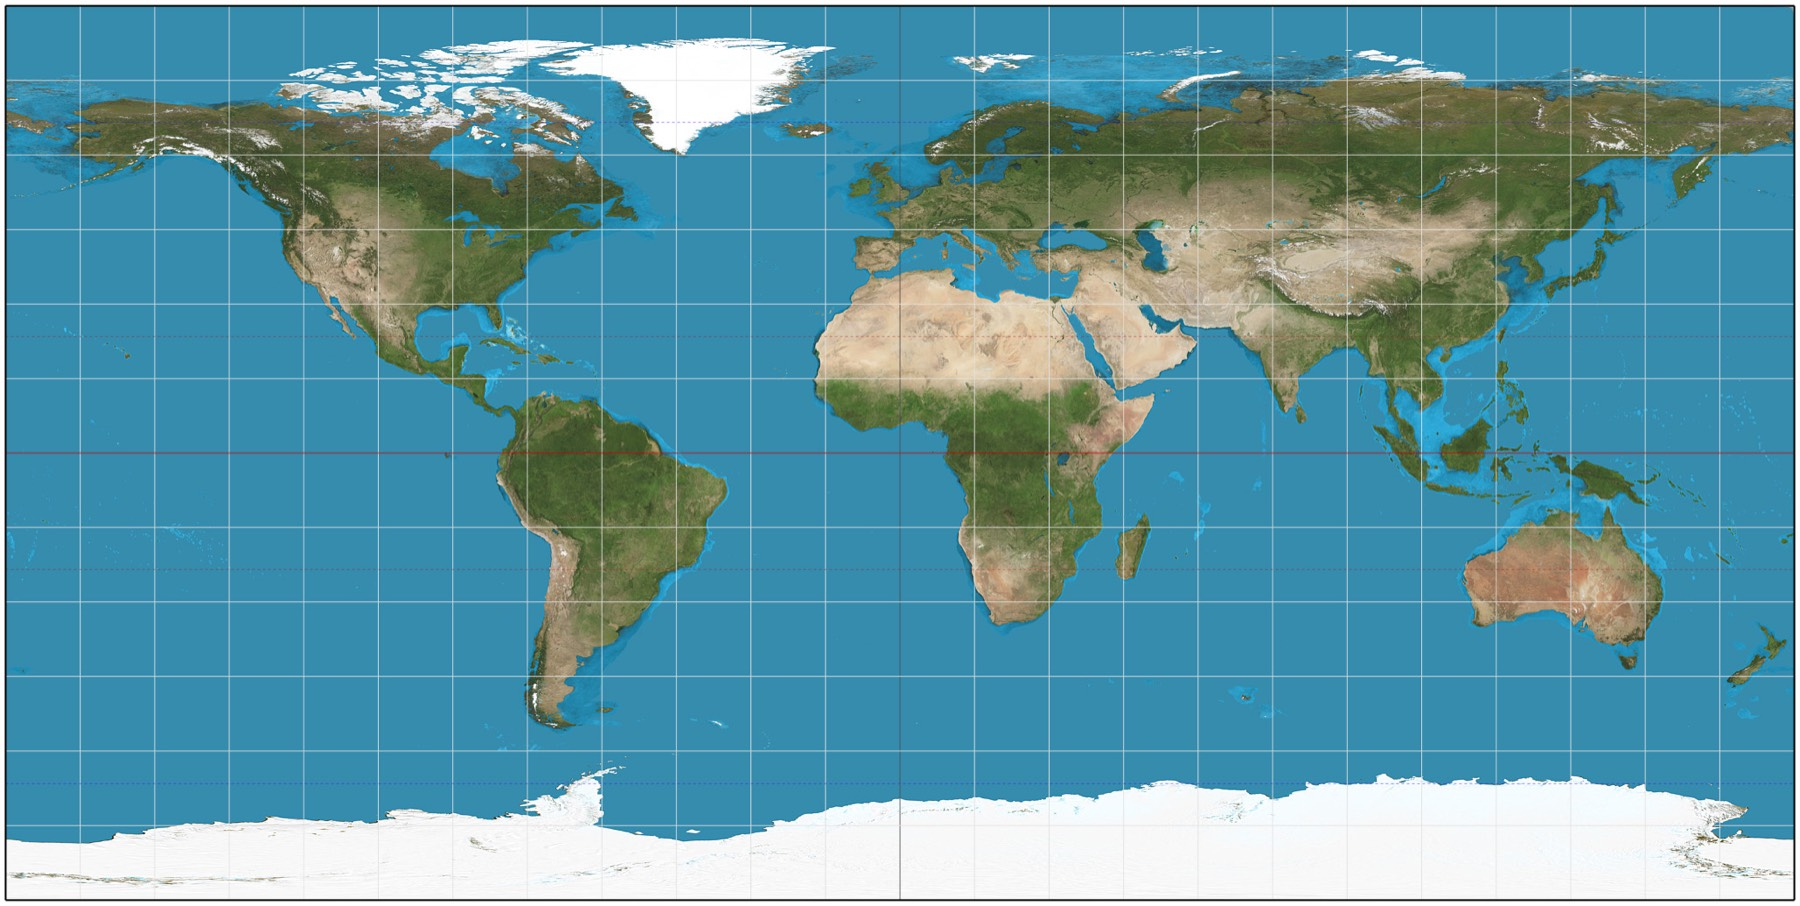
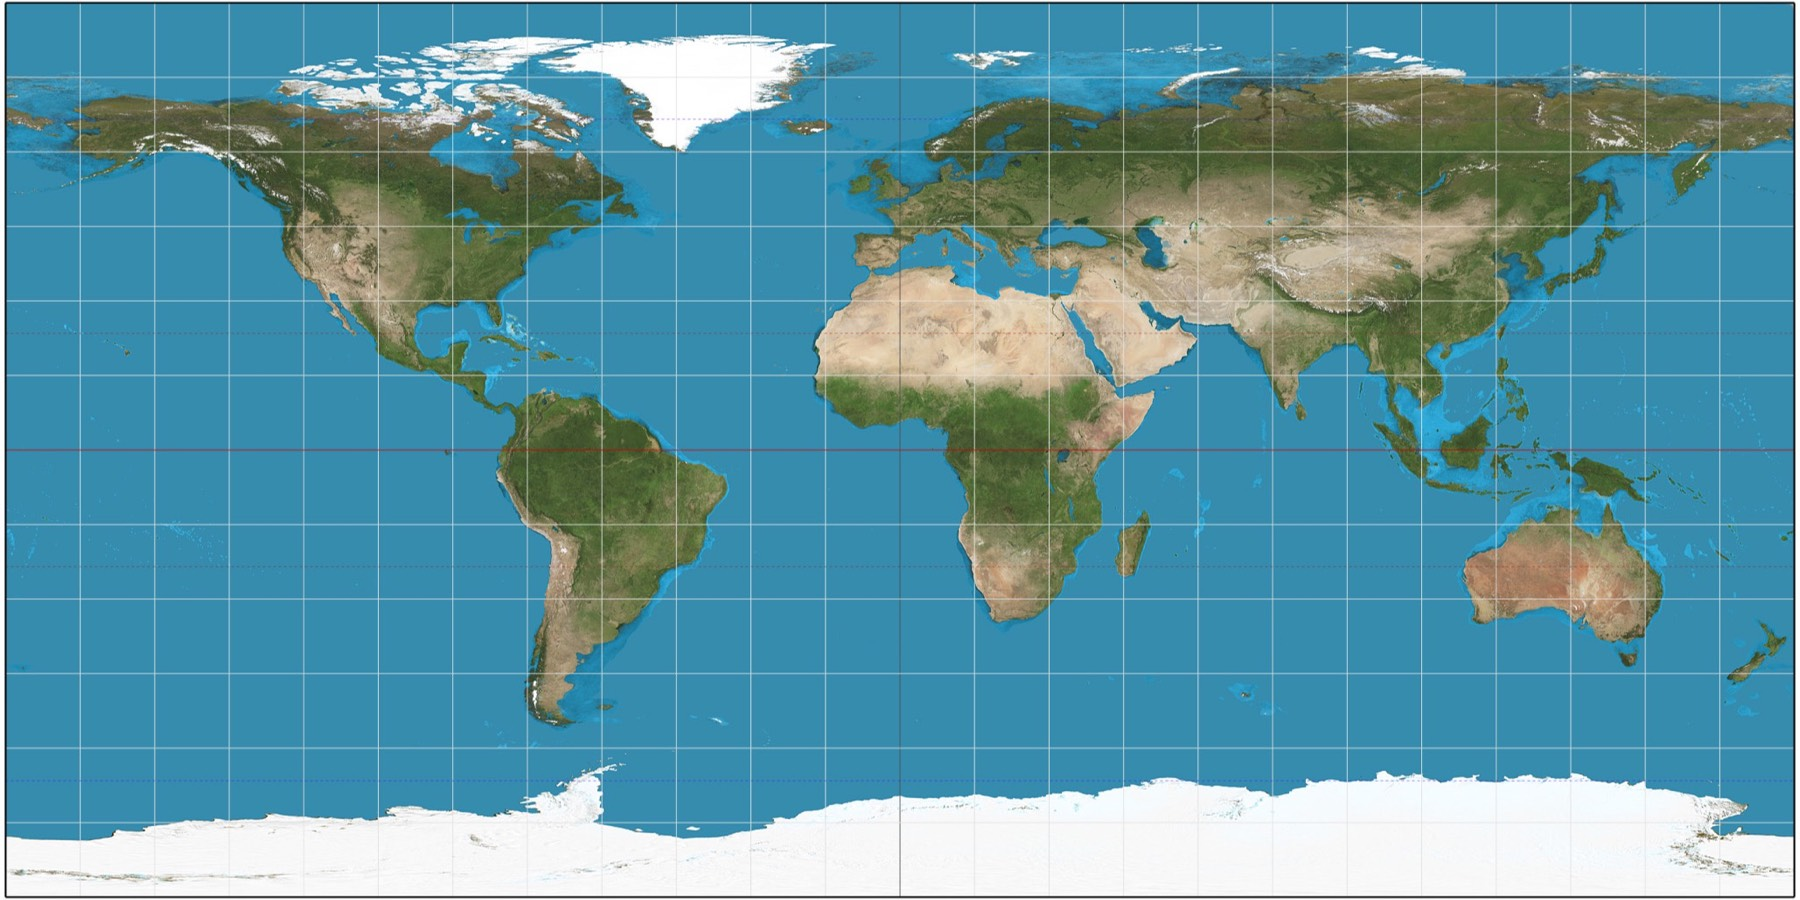
PSI follow-up: fix aspect-ratio/a11y findings, defer analytics off critical path
Found by comparing before/after/15-min PageSpeed Insights reports:

- World map image was 1800x907 but the CSS box is a strict 2:1 aspect
  ratio -> flagged as "incorrect aspect ratio" under Best Practices.
  Re-cropped to an exact 1800x900 (also came out smaller: 98KB vs 117KB
  WebP)
- Footer column headings (Company/Products/Get a Quote) were <h4> with
  no <h3> anywhere before them on the page -> heading-order a11y flag.
  Changed to <h3>, matching the site's existing h1->h2->h3 structure
- The two footer phone/WhatsApp links were tightly packed with no
  padding -> touch-target-size a11y flag. Added tap-area padding (via
  a negative-margin trick so visible spacing doesn't shift) and more
  gap between the two links
- Deferred the automatic analytics kickoff (returning visitors who
  already consented) to browser idle time instead of firing the
  instant the script runs, so it doesn't compete with GSAP/ScrollTrigger
  init for the main thread right after paint. Note: this does not
  reduce Google Tag Manager's own work — GTM's container (not this
  codebase) is what fires the separate GA4/second-tag/Clarity scripts
  that showed up as the biggest Total Blocking Time contributor on
  mobile; that needs to be looked at in the GTM dashboard directly

diff --git a/public/css/styles.css b/public/css/styles.css
@@ -564,6 +564,10 @@ h1, h2, h3, h4, .font-head { font-family: var(--font-head); letter-spacing: -0.0
 .trust-item .t-label { font-size: .8rem; color: #9fb0c9; margin-top: 2px; }
 .footer-link { color: #aebbd0; transition: color .2s ease, padding-left .2s ease; }
 .footer-link:hover { color: #fff; padding-left: 4px; }
+/* The two phone/WhatsApp links sit close together with small text — pad
+   their tap area out a bit so they meet touch-target size guidelines
+   without changing how the text itself looks. */
+.footer-link-tap { display: inline-block; padding: 4px 0; margin: -4px 0; }
 
 /* =======================================================================
    ABOUT PAGE
